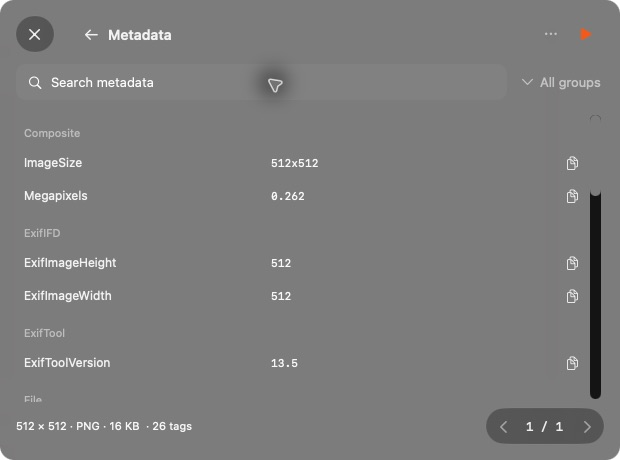
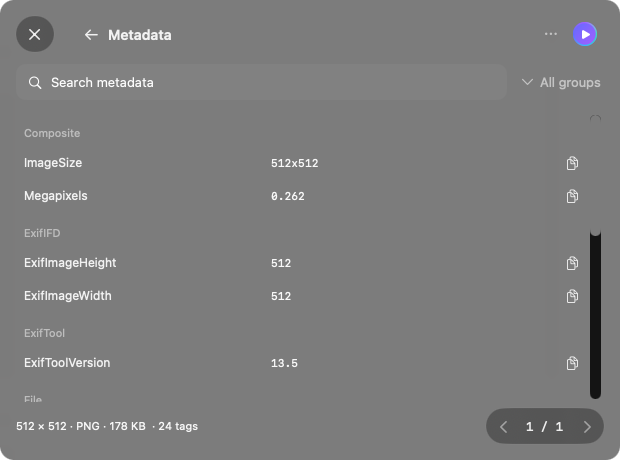
Aurora style: replace orange with the drop-glow palette; Dice 0.2.0 (build 30)
- DiceStyle defines mint #34E5B8, cyan #2BC4F2, indigo #5E6BFF and violet
  #A65CFF for SwiftUI and AppKit. Indigo is the single accent (tints,
  selection, menu icons).
- Start is an indigo-to-violet disc with an aurora rim; solid indigo with
  Increase Contrast; greyed while busy.
- Processing shows an aurora progress ring that moves only as images finish.
- The empty-state die, the drop glow, the menu bar drop target and the app
  icon use the same palette.
- Style guide colour section rewritten; README screenshots retaken.

diff --git a/Sources/Dice/Style.swift b/Sources/Dice/Style.swift
@@ -1,8 +1,25 @@
 import SwiftUI
+import AppKit
 
 /// Shared visual vocabulary. See docs/STYLE_GUIDE.md.
 enum DiceStyle {
-    static let accent = Color(red: 0.96, green: 0.35, blue: 0.10)
+    // Aurora palette, from the drop glow: mint → cyan → indigo → violet. sRGB; scripts/icon.swift repeats these values.
+    static let mintRGB = (0.204, 0.898, 0.722)     // #34E5B8
+    static let cyanRGB = (0.169, 0.769, 0.949)     // #2BC4F2
+    static let indigoRGB = (0.369, 0.420, 1.0)     // #5E6BFF
+    static let violetRGB = (0.651, 0.361, 1.0)     // #A65CFF
+    static let mint = color(mintRGB), cyan = color(cyanRGB), indigo = color(indigoRGB), violet = color(violetRGB)
+    static let aurora: [Color] = [mint, cyan, indigo, violet]
+    /// The one solid accent: control tints, selection, menu icons. Indigo keeps 4:1 contrast on light and dark surfaces.
+    static let accent = indigo
+    static let nsAccent = nsColor(indigoRGB)
+    static let nsAurora: [NSColor] = [mintRGB, cyanRGB, indigoRGB, violetRGB].map(nsColor)
+    /// Start's fill: the darker half of the aurora, so the white glyph stays legible.
+    static let startFill = LinearGradient(colors: [indigo, violet], startPoint: .topLeading, endPoint: .bottomTrailing)
+    /// Closed loop for rings and the drop glow.
+    static func auroraLoop(angle: Double = 0) -> AngularGradient { AngularGradient(colors: aurora + [mint], center: .center, angle: .degrees(angle)) }
+    static let auroraMark = LinearGradient(colors: aurora, startPoint: .topLeading, endPoint: .bottomTrailing)
+
     static let title = Font.system(size: 16, weight: .semibold)
     static let heading = Font.system(size: 14, weight: .semibold)
     static let body = Font.system(size: 13)
@@ -16,4 +33,39 @@ enum DiceStyle {
     static let inset: CGFloat = 16
     static let controlSize: CGFloat = 30
     static let cornerRadius: CGFloat = 14
+
+    private static func color(_ c: (Double, Double, Double)) -> Color { Color(.sRGB, red: c.0, green: c.1, blue: c.2) }
+    private static func nsColor(_ c: (Double, Double, Double)) -> NSColor { NSColor(srgbRed: c.0, green: c.1, blue: c.2, alpha: 1) }
+}
+
+/// The primary action: an indigo-to-violet disc with a fine aurora rim. Increased contrast drops the gradient for solid indigo.
+struct StartGlyph: View {
+    @Environment(\.isEnabled) private var enabled
+    @Environment(\.colorSchemeContrast) private var contrast
+    var body: some View {
+        ZStack {
+            if contrast == .increased { Circle().fill(DiceStyle.accent) }
+            else { Circle().fill(DiceStyle.startFill); Circle().strokeBorder(DiceStyle.auroraLoop(), lineWidth: 1.25) }
+            Image(systemName: "play.fill").font(.system(size: 10, weight: .bold)).foregroundStyle(.white).offset(x: 1)
+        }
+        .frame(width: 24, height: 24)
+        .saturation(enabled ? 1 : 0).opacity(enabled ? 1 : 0.4)
+    }
+}
+
+/// Determinate progress in the aurora loop. Moves only when `fraction` changes.
+struct AuroraProgress: View {
+    let fraction: Double
+    @Environment(\.accessibilityReduceMotion) private var reduceMotion
+    var body: some View {
+        ZStack {
+            Circle().stroke(.primary.opacity(0.08), lineWidth: 4)
+            Circle().trim(from: 0, to: max(0.03, min(1, fraction)))
+                .stroke(DiceStyle.auroraLoop(), style: StrokeStyle(lineWidth: 4, lineCap: .round))
+                .rotationEffect(.degrees(-90))
+        }
+        .frame(width: 44, height: 44)
+        .animation(reduceMotion ? nil : .easeOut(duration: 0.3), value: fraction)
+        .accessibilityElement().accessibilityLabel("Progress").accessibilityValue("\(Int(fraction * 100)) percent")
+    }
 }

diff --git a/Sources/Dice/Views.swift b/Sources/Dice/Views.swift
@@ -45,7 +45,7 @@ struct DiceView: View {
                     .padding(.top, 64).padding(.bottom, model.items.isEmpty ? 16 : 58)
             } else if model.items.isEmpty {
                 VStack(spacing: 12) {
-                    Image(systemName: "die.face.5").font(DiceStyle.emptySymbol).foregroundStyle(.secondary)
+                    Image(systemName: "die.face.5").font(DiceStyle.emptySymbol).foregroundStyle(DiceStyle.auroraMark)
                     Button("Choose images…") { model.chooseFiles() }.buttonStyle(.plain).font(DiceStyle.body).foregroundStyle(.secondary)
                     Text("or drop them here").font(DiceStyle.caption).foregroundStyle(.tertiary)
                 }.frame(maxWidth: .infinity, maxHeight: .infinity)
@@ -56,7 +56,7 @@ struct DiceView: View {
                 VStack(spacing: 0) {
                     if model.busy {
                         VStack(spacing: 14) {
-                            ProgressView().controlSize(.large)
+                            AuroraProgress(fraction: model.items.isEmpty ? 0 : Double(model.completed) / Double(model.items.count))
                             Text(model.status).font(DiceStyle.caption).foregroundStyle(.secondary)
                         }.frame(maxWidth: .infinity, maxHeight: .infinity)
                     } else if let preview = displayedPreview {
@@ -138,7 +138,9 @@ struct DiceView: View {
                     .popover(isPresented: $imageSettingsPresented, arrowEdge: .top) { imageSettingsPanel }
             }
             if !model.settingsPresented {
-            icon("play.fill", "Start with current settings (right-click for more export options)") { imageSettingsPresented = false; model.process() }.foregroundStyle(accent).disabled(model.busy || model.importing || model.items.isEmpty)
+            Button { imageSettingsPresented = false; model.process() } label: { StartGlyph().frame(width: DiceStyle.controlSize, height: DiceStyle.controlSize).contentShape(Rectangle()) }
+                .help("Start with current settings (right-click for more export options)").accessibilityLabel("Start with current settings")
+                .disabled(model.busy || model.importing || model.items.isEmpty)
                 .overlay { RightClickCatcher { if !(model.busy || model.importing || model.items.isEmpty) { exportPopoverPresented = true } } }
                 .popover(isPresented: $exportPopoverPresented, arrowEdge: .top) { exportPopover }
             }
@@ -376,7 +378,7 @@ struct BatchPane: View {
                                 }.buttonStyle(.plain).help("Open \(item.name)")
                                 Button { model.remove(item.id) } label: { Image(systemName: "xmark").font(DiceStyle.caption).frame(width: 22,height: 26) }.buttonStyle(.plain).help("Remove from Dice; original stays in place").accessibilityLabel("Remove \(item.name)").disabled(model.busy || model.importing)
                             }.contextMenu { Button("Remove from Dice") { model.remove(item.id) }.disabled(model.busy || model.importing); Button("Move Original to Trash") { model.trashOriginal(item.id) }.disabled(model.busy || model.importing) }
-                            .padding(8).background(item.id == model.selected ? accent.opacity(0.1) : .clear, in: RoundedRectangle(cornerRadius: 7))
+                            .padding(8).background(item.id == model.selected ? accent.opacity(0.14) : .clear, in: RoundedRectangle(cornerRadius: 7))
                         }
                     }
                 }

diff --git a/Sources/Dice/DropTarget.swift b/Sources/Dice/DropTarget.swift
@@ -84,7 +84,7 @@ final class DropTargetView: NSVisualEffectView {
     private let title = NSTextField(labelWithString: "Drop to open")
     private let subtitle = NSTextField(labelWithString: "in Dice")
     private let icon = NSImageView()
-    private let tint = CALayer()
+    private let tint = CAGradientLayer()
     private let dashes = CAShapeLayer()
     private static let radius: CGFloat = 30
     override init(frame: NSRect) {
@@ -93,7 +93,8 @@ final class DropTargetView: NSVisualEffectView {
         wantsLayer = true
         layer?.cornerRadius = Self.radius; layer?.cornerCurve = .continuous; layer?.masksToBounds = true
         layer?.borderWidth = 1; layer?.borderColor = NSColor.white.withAlphaComponent(0.18).cgColor
-        tint.backgroundColor = NSColor.clear.cgColor; layer?.addSublayer(tint)
+        tint.colors = DiceStyle.nsAurora.map { $0.withAlphaComponent(0.24).cgColor }
+        tint.startPoint = CGPoint(x: 0, y: 1); tint.endPoint = CGPoint(x: 1, y: 0); tint.opacity = 0; layer?.addSublayer(tint)
         dashes.fillColor = nil; dashes.lineWidth = 1.5; dashes.lineDashPattern = [5, 5]; dashes.lineCap = .round
         dashes.strokeColor = NSColor.white.withAlphaComponent(0.35).cgColor; layer?.addSublayer(dashes)
         icon.isEditable = false; icon.unregisterDraggedTypes()
@@ -119,8 +120,8 @@ final class DropTargetView: NSVisualEffectView {
         dashes.path = CGPath(roundedRect: bounds.insetBy(dx: 12, dy: 12), cornerWidth: Self.radius - 12, cornerHeight: Self.radius - 12, transform: nil)
     }
     func highlight(_ on: Bool) {
-        let accent = NSColor.controlAccentColor
-        tint.backgroundColor = (on ? accent.withAlphaComponent(0.22) : NSColor.clear).cgColor
+        let accent = DiceStyle.nsAccent
+        tint.opacity = on ? 1 : 0
         dashes.strokeColor = (on ? accent : NSColor.white.withAlphaComponent(0.35)).cgColor
         layer?.borderColor = (on ? accent.withAlphaComponent(0.8) : NSColor.white.withAlphaComponent(0.18)).cgColor
         icon.contentTintColor = on ? accent : .labelColor

diff --git a/scripts/icon.swift b/scripts/icon.swift
@@ -7,8 +7,12 @@ for size in [16,32,128,256,512] {
         let rep = NSBitmapImageRep(bitmapDataPlanes: nil, pixelsWide: pixels, pixelsHigh: pixels, bitsPerSample: 8, samplesPerPixel: 4, hasAlpha: true, isPlanar: false, colorSpaceName: .deviceRGB, bytesPerRow: 0, bitsPerPixel: 0)!
         NSGraphicsContext.saveGraphicsState(); NSGraphicsContext.current = NSGraphicsContext(bitmapImageRep: rep)
         let p = CGFloat(pixels), inset = p * 0.09
-        NSColor(calibratedRed: 0.96, green: 0.35, blue: 0.10, alpha: 1).setFill()
-        NSBezierPath(roundedRect: NSRect(x: inset,y: inset,width: p-2*inset,height: p-2*inset), xRadius: p*0.18,yRadius: p*0.18).fill()
+        // Aurora palette from Sources/Dice/Style.swift: mint top left → cyan → indigo → violet bottom right.
+        let aurora = [(0.204, 0.898, 0.722), (0.169, 0.769, 0.949), (0.369, 0.420, 1.0), (0.651, 0.361, 1.0)].map { NSColor(srgbRed: $0.0, green: $0.1, blue: $0.2, alpha: 1) }
+        let body = NSBezierPath(roundedRect: NSRect(x: inset,y: inset,width: p-2*inset,height: p-2*inset), xRadius: p*0.18,yRadius: p*0.18)
+        NSGradient(colors: aurora)!.draw(in: body, angle: -45)
+        // A soft shade keeps the white pips legible over the light mint corner.
+        NSGradient(colors: [NSColor.black.withAlphaComponent(0.18), NSColor.black.withAlphaComponent(0)])!.draw(in: body, angle: -45)
         NSColor.white.setFill()
         for (x,y) in [(0.32,0.32),(0.68,0.32),(0.5,0.5),(0.32,0.68),(0.68,0.68)] {
             NSBezierPath(ovalIn: NSRect(x: p*x-p*0.052,y: p*y-p*0.052,width: p*0.104,height: p*0.104)).fill()

diff --git a/Sources/Dice/AuroraDropBorder.swift b/Sources/Dice/AuroraDropBorder.swift
@@ -3,12 +3,11 @@ import SwiftUI
 /// Rendered only while a file hovers over the window; no idle animation work.
 struct AuroraDropBorder: View {
     @Environment(\.accessibilityReduceMotion) private var reduceMotion
-    private let colours: [Color] = [.mint, .cyan, .indigo, .purple, .cyan, .mint]
 
     var body: some View {
         TimelineView(.animation(minimumInterval: 1.0 / 30, paused: reduceMotion)) { context in
             let angle = reduceMotion ? 0 : context.date.timeIntervalSinceReferenceDate.truncatingRemainder(dividingBy: 15) * 24
-            let light = AngularGradient(colors: colours, center: .center, angle: .degrees(angle))
+            let light = DiceStyle.auroraLoop(angle: angle)
             let edge = RoundedRectangle(cornerRadius: DiceStyle.cornerRadius, style: .continuous).inset(by: 3)
             ZStack {
                 edge.stroke(light, lineWidth: 14).blur(radius: 12).opacity(0.5)

diff --git a/docs/STYLE_GUIDE.md b/docs/STYLE_GUIDE.md
@@ -22,12 +22,25 @@ Avoid one-off font sizes in new UI. Text follows system light/dark appearance an
 
 ## Colour and material
 
-- Primary and secondary system text colours carry content and supporting details.
-- Accent orange is approximately `#F5591A`; reserve it for Start/Apply and selected-state emphasis.
-- The window uses native HUD material with behind-window blur.
-- Toolbar and pager use ultra-thin material, a capsule shape and a subtle 0.5 pt edge.
-- Errors use the system red; disabled controls use native disabled appearance.
-- Drag-over illuminates the entire window edge with a soft mint, cyan and violet aurora. Motion runs only during an accepted drag hover and stops with Reduce Motion enabled.
+Dice's colour is **Aurora**, the light that runs around the window when a file is dragged over it. It's one palette for the whole app: the drop glow, the Start button, progress, the empty-state mark, the app icon and the menu bar drop target all use the same four colours. There is no other brand colour.
+
+| Token | Hex (sRGB) | Role |
+|---|---|---|
+| Mint | `#34E5B8` | Start of the loop; brightest moments |
+| Cyan | `#2BC4F2` | Loop and gradients |
+| Indigo | `#5E6BFF` | **The accent**: control tints, selection, menu icons, Start fill |
+| Violet | `#A65CFF` | End of the loop; Start fill |
+
+The values live in `Sources/Dice/Style.swift` (`DiceStyle`), with SwiftUI and AppKit versions; `scripts/icon.swift` repeats them for the icon.
+
+How to use them:
+
+- **One solid accent.** Indigo is the only flat brand colour. Toggles, sliders, pickers, the selected batch row (14% indigo) and the export menu's icons use it. Indigo keeps about 4:1 contrast on both light and dark surfaces.
+- **Gradients are for brand moments only**: the drop glow and progress ring (the closed loop mint → cyan → indigo → violet → mint), the empty-state die (mint → violet, diagonal), and Start. Never put a gradient on text, on secondary controls or across large backgrounds.
+- **Start** is a 24 pt indigo → violet disc with a 1.25 pt aurora rim and a white play glyph, in the usual 30 pt target. The disc uses only the dark half of the palette so the white glyph stays legible. Disabled, it loses its colour and drops to 40% opacity. With Increase Contrast, it's solid indigo with no rim.
+- **Motion.** The glow turns only while an accepted file hovers over the window. The progress ring moves only when an image finishes. Nothing is animated while idle, and Reduce Motion stops both.
+- Primary and secondary system text colours carry content and supporting details. Errors use the system red; disabled controls use the native disabled appearance.
+- The window uses native HUD material with behind-window blur. The toolbar and pager use ultra-thin material, a capsule shape and a subtle 0.5 pt edge.
 
 ## Layout and interaction
 

diff --git a/docs/VALIDATION.md b/docs/VALIDATION.md
@@ -1,3 +1,11 @@
+# v0.2.0 Aurora style — 2026-10-16
+
+Visual change only; no processing code changed and all 32 checks still pass. Orange is gone: `DiceStyle` defines the Aurora palette (mint `#34E5B8`, cyan `#2BC4F2`, indigo `#5E6BFF`, violet `#A65CFF`). Indigo is the single accent; gradients are used only for the drop glow, the progress ring, the empty-state die, Start and the app icon.
+
+Native review of Dice Dev in dark and forced-light appearance (`-NSRequiresAquaSystemAppearance YES`) verified the empty-state aurora die, the indigo-to-violet Start disc with its aurora rim (greyed while busy), indigo selection in the batch list, indigo checkbox, slider and picker tints in Image settings, and the aurora progress ring at 7 of 30 during a 30-image run. The README screenshots were retaken with the new icon. Not checked visually: the drop glow during a real drag, the menu bar drop target's highlight, and Increase Contrast's solid Start.
+
+---
+
 # v0.1.28 bug fixes — 2026-10-16
 
 All 32 standalone checks pass, including ten new ones, one per fixed bug: BMP output with metadata kept; multi-size icons as one image; the WebP temporary file never replacing another result; SVG and PDF rendering above their intrinsic size; "Same as original" fallbacks and when Quality applies; session-only choices resetting; PDF pages reusing file metadata (ExifTool unreachable for page 2); folder expansion with hidden files and a limit; the bundled-tool timeout; and wide-gamut flattening. Five engine checks were confirmed to fail with the old code put back (BMP, icons, WebP temporary, vector size, flattening).
